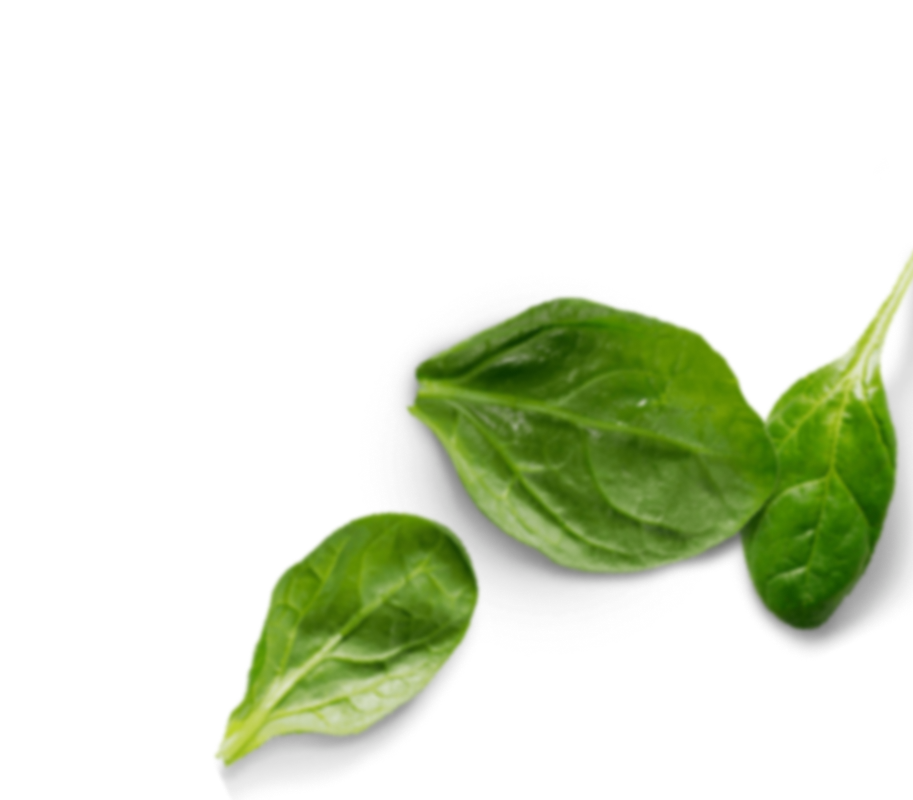
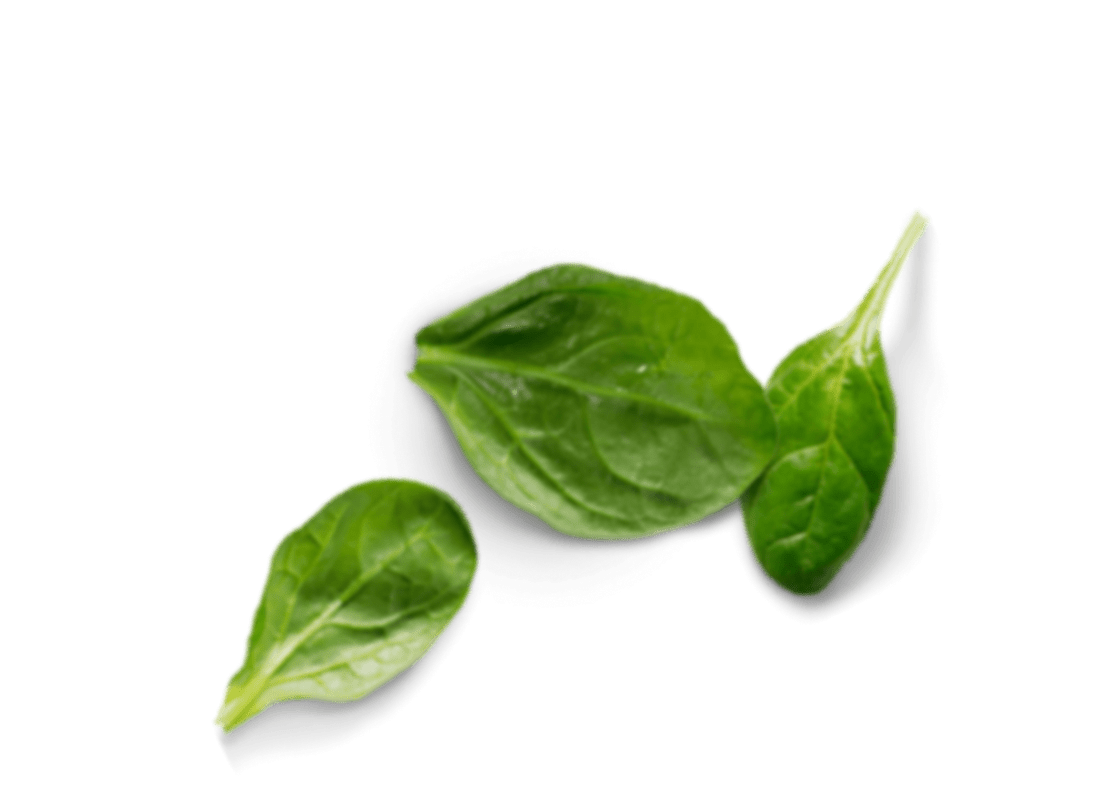
styled foto hero

Changed region(s): [[0.184, 0.25, 1.0, 1.0]]

diff --git a/src/components/MainPage/Hero/Hero.styled.js b/src/components/MainPage/Hero/Hero.styled.js
@@ -35,9 +35,16 @@ export const WrapperStyled = styled.div`
   }
   @media screen and (min-width: 1440px) {
     height: 800px;
+
     background-image: url(${bannerD}), url(${banner3D}), url(${banner4D}),
       url(${banner2D});
-    background-position: top left, center, center, center 100px top;
+    background-position: top left, 63% 200px, 66%, right top;
+    background-size: auto, auto, auto, 50% 689px;
+  }
+  @media screen and (min-width: 2240px) {
+    background-image: url(${bannerD}), url(${banner3D}), url(${banner4D}),
+      url(${banner2D});
+    background-position: top left, 55% 200px, 55%, right top;
   }
 `;
 export const BoxStyled = styled.div``;
